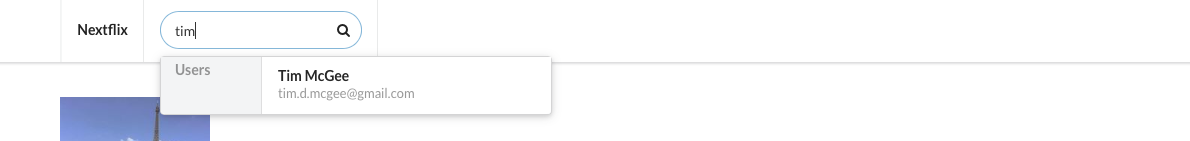
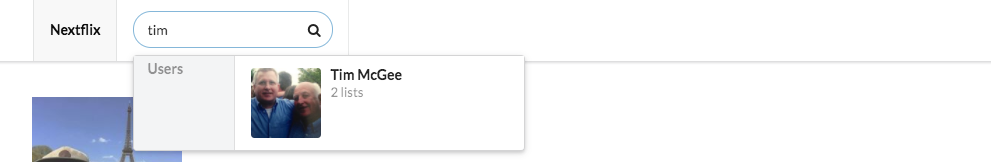
add photo to global search

diff --git a/public/js/application.js b/public/js/application.js
@@ -325,7 +325,8 @@ $(document).ready(function() {
 	          response.results[name].results.push({
 	            title       : item.name,
 	            description : item.description,
-	            url         : item.html_url
+	            url         : item.html_url, 
+	            image       : item.img,
 	          });
 	        });
 	        return response;

diff --git a/public/css/application.css b/public/css/application.css
@@ -48,6 +48,13 @@ p .errors {
 }
 
 
+div.results.transition.visible .category .result .image {
+  float: left;
+  margin-right: 10px;
+  width: 5em;
+  height: 5em;
+}
+
 
 /* Owl Carousel Style ===================================================================================*/
 

diff --git a/app/helpers/search_helper.rb b/app/helpers/search_helper.rb
@@ -3,7 +3,7 @@ def search_response(people, lists)
   listarray = []
 
   people.each do |p|
-  	peoplearray << {"title":"#{p.username}", "url":"/users/#{p.id}", "description":"#{p.email}"}
+  	peoplearray << {"title":"#{p.username}", "url":"/users/#{p.id}", "description":"#{p.lists.count} lists", "image":"#{p.img}"}
   end
 
   lists.each do |l|
